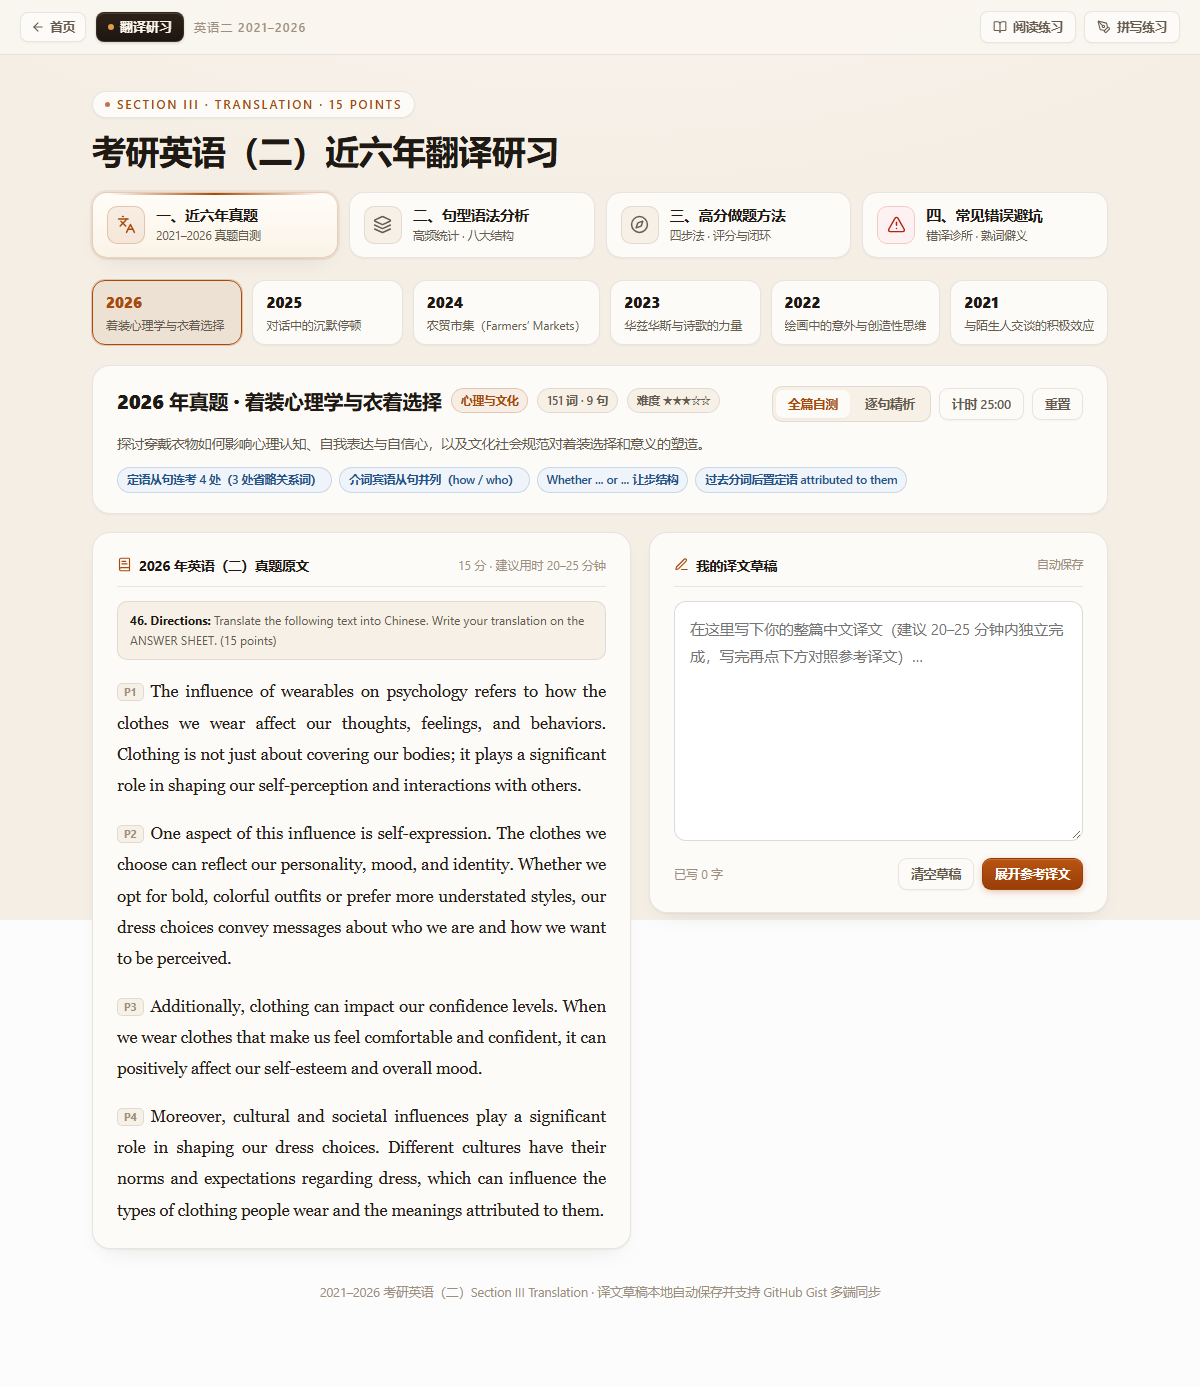
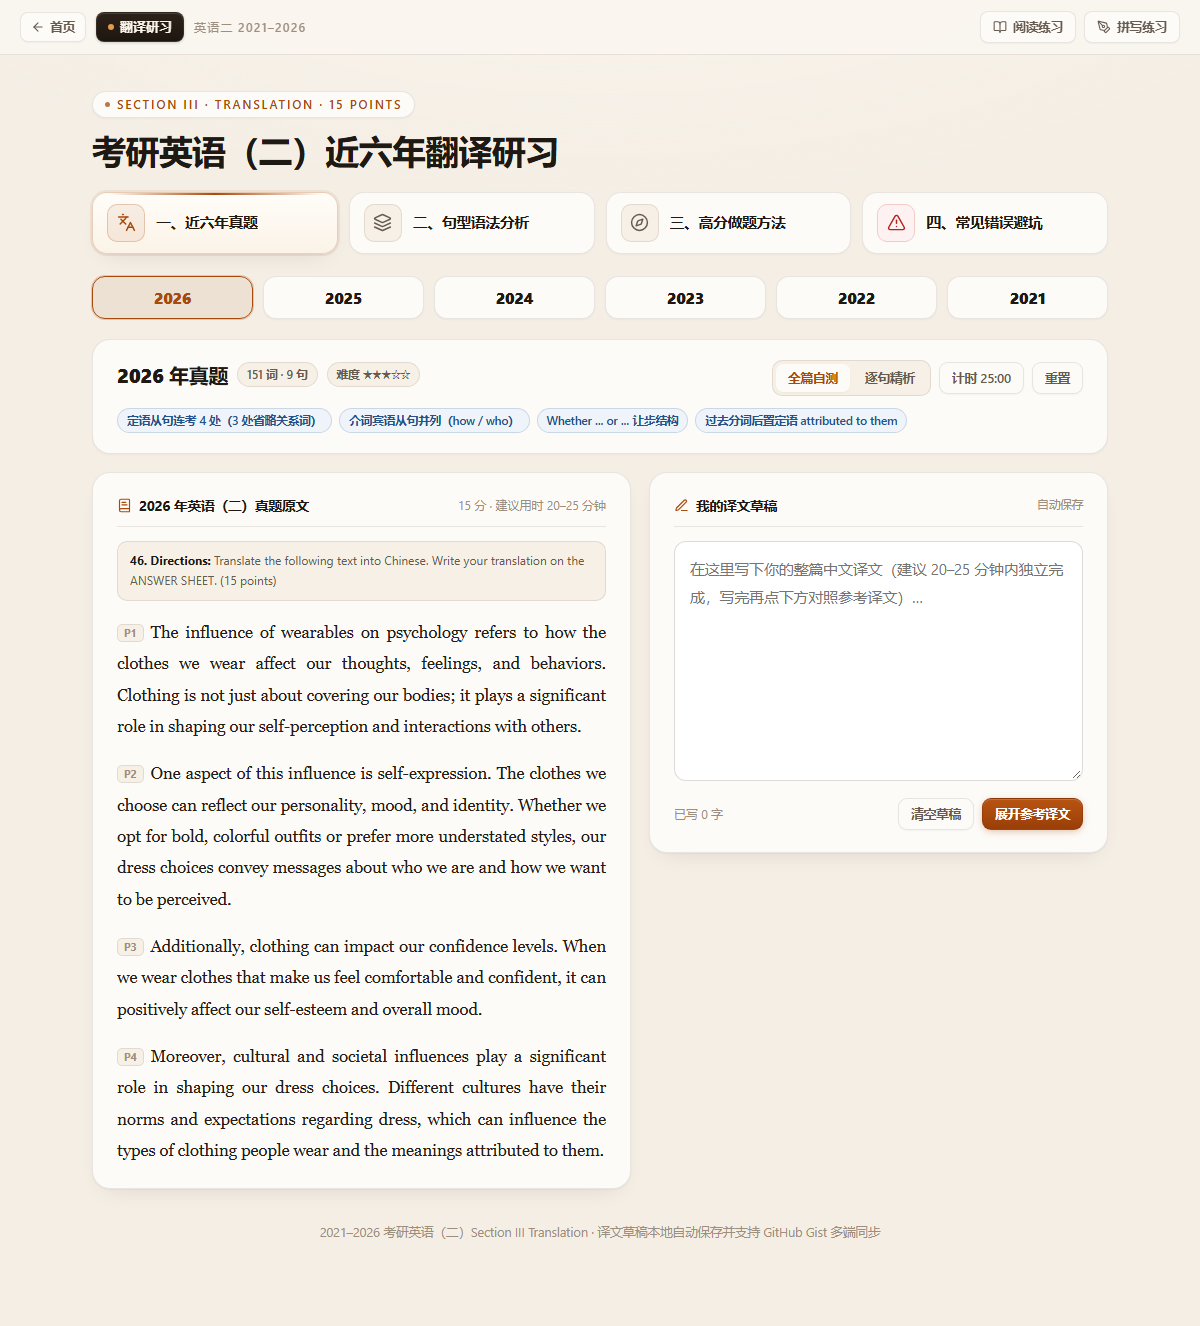
ui: remove redundant subtitles and topic/summary spoilers from translation page

diff --git a/translation.html b/translation.html
@@ -96,7 +96,7 @@ h1{font-size:clamp(24px,3.4vw,34px);margin:12px 0 0;letter-spacing:-.02em;line-h
 .main-tab{
   display:flex;align-items:center;gap:11px;text-align:left;
   background:var(--card);border:1px solid var(--line);border-radius:15px;
-  padding:13px 14px;cursor:pointer;font-family:inherit;color:var(--ink);
+  padding:11px 14px;cursor:pointer;font-family:inherit;color:var(--ink);
   box-shadow:var(--shadow-sm);transition:all .18s ease;position:relative;overflow:hidden;
 }
 .main-tab:hover{border-color:var(--line-strong);background:#fff;transform:translateY(-1px);box-shadow:var(--shadow-md)}
@@ -125,16 +125,15 @@ h1{font-size:clamp(24px,3.4vw,34px);margin:12px 0 0;letter-spacing:-.02em;line-h
 .main-tab.active .mt-ico{background:var(--accent-soft);border-color:var(--accent-border);color:var(--accent)}
 .main-tab.warn-tab .mt-ico{color:var(--warn);background:var(--warn-soft);border-color:var(--warn-border)}
 .mt-title{font-size:14.5px;font-weight:750;color:var(--ink);line-height:1.3}
-.mt-sub{font-size:11.5px;color:var(--muted);margin-top:3px;line-height:1.4}
 
 /* Block 1: Year Selector Strip */
 .year-strip{
   display:grid;grid-template-columns:repeat(6,1fr);gap:10px;margin-bottom:20px;
 }
 .year-pill{
-  position:relative;text-align:left;
+  position:relative;text-align:center;
   background:var(--card);border:1px solid var(--line);border-radius:13px;
-  padding:11px 13px;cursor:pointer;font-family:inherit;color:var(--ink);
+  padding:10px 13px;cursor:pointer;font-family:inherit;color:var(--ink);
   box-shadow:var(--shadow-sm);transition:all .16s ease;
 }
 .year-pill:hover{border-color:var(--line-strong);background:#fff;transform:translateY(-1px)}
@@ -142,14 +141,10 @@ h1{font-size:clamp(24px,3.4vw,34px);margin:12px 0 0;letter-spacing:-.02em;line-h
   border-color:var(--accent);background:var(--accent-soft);
   box-shadow:0 0 0 1px var(--accent-border);
 }
-.yp-top{display:flex;align-items:center;justify-content:space-between;gap:6px}
-.yp-year{font-size:15px;font-weight:800;font-variant-numeric:tabular-nums;color:var(--ink)}
+.yp-top{display:flex;align-items:center;justify-content:center;gap:7px}
+.yp-year{font-size:15.5px;font-weight:800;font-variant-numeric:tabular-nums;color:var(--ink)}
 .year-pill.active .yp-year{color:var(--accent)}
 .yp-dot{width:7px;height:7px;border-radius:50%;background:var(--ok);flex-shrink:0}
-.yp-topic{
-  font-size:11.8px;color:var(--muted);margin-top:5px;
-  white-space:nowrap;overflow:hidden;text-overflow:ellipsis;
-}
 
 /* Passage Header Card */
 .exam-head{
@@ -167,8 +162,7 @@ h1{font-size:clamp(24px,3.4vw,34px);margin:12px 0 0;letter-spacing:-.02em;line-h
 .pill.accent{color:var(--accent);background:var(--accent-soft);border-color:var(--accent-border)}
 .pill.blue{color:var(--blue);background:var(--blue-soft);border-color:var(--blue-border)}
 .pill.ok{color:var(--ok);background:var(--ok-soft);border-color:var(--ok-border)}
-.eh-summary{margin:10px 0 12px;font-size:13.5px;color:var(--muted);line-height:1.75}
-.eh-highlights{display:flex;flex-wrap:wrap;gap:7px}
+.eh-highlights{display:flex;flex-wrap:wrap;gap:7px;margin-top:12px}
 .eh-controls{display:flex;align-items:center;gap:8px;flex-wrap:wrap}
 
 /* Segmented Switch */
@@ -569,37 +563,25 @@ table.vtable tbody tr:hover{background:#fbf7f1}
       <div class="mt-ico" aria-hidden="true">
         <svg width="19" height="19" viewBox="0 0 24 24" fill="none" stroke="currentColor" stroke-width="1.85" stroke-linecap="round" stroke-linejoin="round"><path d="m5 8 6 6"/><path d="m4 14 6-6 2-3"/><path d="M2 5h12"/><path d="M7 2h1"/><path d="m22 22-5-10-5 10"/><path d="M14 18h6"/></svg>
       </div>
-      <div>
-        <div class="mt-title">一、近六年真题</div>
-        <div class="mt-sub">2021–2026 真题自测</div>
-      </div>
+      <div class="mt-title">一、近六年真题</div>
     </button>
     <button class="main-tab" id="tab-grammar" role="tab" aria-selected="false">
       <div class="mt-ico" aria-hidden="true">
         <svg width="19" height="19" viewBox="0 0 24 24" fill="none" stroke="currentColor" stroke-width="1.85" stroke-linecap="round" stroke-linejoin="round"><path d="m12.83 2.18a2 2 0 0 0-1.66 0L2.6 6.08a1 1 0 0 0 0 1.83l8.58 3.91a2 2 0 0 0 1.66 0l8.58-3.9a1 1 0 0 0 0-1.83Z"/><path d="m22 17.65-9.17 4.16a2 2 0 0 1-1.66 0L2 17.65"/><path d="m22 12.65-9.17 4.16a2 2 0 0 1-1.66 0L2 12.65"/></svg>
       </div>
-      <div>
-        <div class="mt-title">二、句型语法分析</div>
-        <div class="mt-sub">高频统计 · 八大结构</div>
-      </div>
+      <div class="mt-title">二、句型语法分析</div>
     </button>
     <button class="main-tab" id="tab-methods" role="tab" aria-selected="false">
       <div class="mt-ico" aria-hidden="true">
         <svg width="19" height="19" viewBox="0 0 24 24" fill="none" stroke="currentColor" stroke-width="1.85" stroke-linecap="round" stroke-linejoin="round"><path d="m16.24 7.76-1.804 5.411a2 2 0 0 1-1.265 1.265L7.76 16.24l1.804-5.411a2 2 0 0 1 1.265-1.265z"/><circle cx="12" cy="12" r="10"/></svg>
       </div>
-      <div>
-        <div class="mt-title">三、高分做题方法</div>
-        <div class="mt-sub">四步法 · 评分与闭环</div>
-      </div>
+      <div class="mt-title">三、高分做题方法</div>
     </button>
     <button class="main-tab warn-tab" id="tab-pitfalls" role="tab" aria-selected="false">
       <div class="mt-ico" aria-hidden="true">
         <svg width="19" height="19" viewBox="0 0 24 24" fill="none" stroke="currentColor" stroke-width="1.85" stroke-linecap="round" stroke-linejoin="round"><path d="m21.73 18-8-14a2 2 0 0 0-3.48 0l-8 14A2 2 0 0 0 4 21h16a2 2 0 0 0 1.73-3"/><path d="M12 9v4"/><path d="M12 17h.01"/></svg>
       </div>
-      <div>
-        <div class="mt-title">四、常见错误避坑</div>
-        <div class="mt-sub">错译诊所 · 熟词僻义</div>
-      </div>
+      <div class="mt-title">四、常见错误避坑</div>
     </button>
   </div>
 
@@ -898,8 +880,7 @@ table.vtable tbody tr:hover{background:#fbf7f1}
       var active = y.id === state.yearId ? ' active' : '';
       var done = hasDraft(y.id) ? '<span class="yp-dot" title="已写译文草稿"></span>' : '';
       return '<button class="year-pill' + active + '" data-year-id="' + esc(y.id) + '">' +
-        '<div class="yp-top"><span class="yp-year">' + y.year + '</span>' + done + '</div>' +
-        '<div class="yp-topic">' + esc(y.topic) + '</div></button>';
+        '<div class="yp-top"><span class="yp-year">' + y.year + '</span>' + done + '</div></button>';
     }).join('');
     $('year-strip').innerHTML = html;
   }
@@ -920,8 +901,7 @@ table.vtable tbody tr:hover{background:#fbf7f1}
       '<div class="eh-top">' +
         '<div>' +
           '<div class="eh-title-row">' +
-            '<h2 class="eh-title">' + ex.year + ' 年真题 · ' + esc(ex.topic) + '</h2>' +
-            '<span class="pill accent">' + esc(ex.category) + '</span>' +
+            '<h2 class="eh-title">' + ex.year + ' 年真题</h2>' +
             '<span class="pill">' + ex.wordCount + ' 词 · ' + ex.sentences.length + ' 句</span>' +
             '<span class="pill" title="综合难度">难度 ' + stars + '</span>' +
           '</div>' +
@@ -937,7 +917,6 @@ table.vtable tbody tr:hover{background:#fbf7f1}
           '<button class="tbtn" id="btn-timer-reset" title="重置计时器">重置</button>' +
         '</div>' +
       '</div>' +
-      '<p class="eh-summary">' + esc(ex.summary) + '</p>' +
       '<div class="eh-highlights">' +
         (ex.highlights || []).map(function (h) { return '<span class="pill blue">' + esc(h) + '</span>'; }).join('') +
       '</div>';

diff --git a/sw.js b/sw.js
@@ -1,4 +1,4 @@
-const CACHE_NAME = 'kaoyan-n-in-one-v19';
+const CACHE_NAME = 'kaoyan-n-in-one-v20';
 const PRECACHE_URLS = [
   './',
   './index.html',
